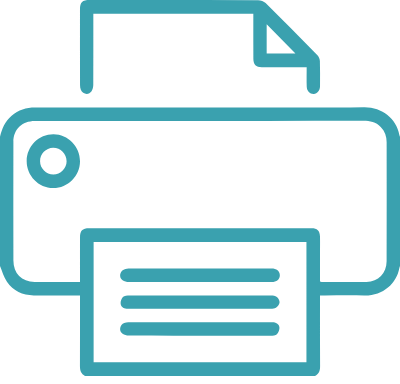
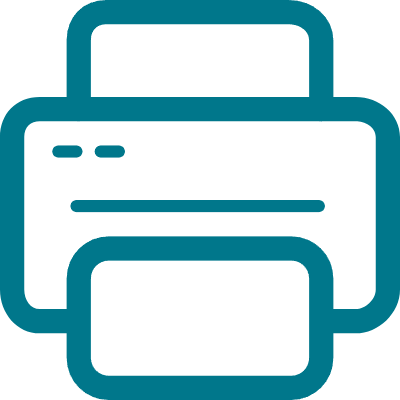
agregar iconos

diff --git a/Proyecto Integrador/Proyecto Integrador/Vistas/Utilidades/IconosAcciones.cs b/Proyecto Integrador/Proyecto Integrador/Vistas/Utilidades/IconosAcciones.cs
@@ -10,7 +10,21 @@ public static class IconosAcciones
     public static Image? Inactivo { get; } = Cargar(RecursosAplicacion.ArchivoIconoInactivo);
     public static Image? GenerarFactura { get; } = Cargar(RecursosAplicacion.ArchivoIconoGenerarFactura);
     public static Image? Imprimir { get; } = Cargar(RecursosAplicacion.ArchivoIconoImprimir);
-    public static Image? CambiarEstado { get; } = Cargar(RecursosAplicacion.ArchivoIconoCambiarEstado);
+    public static Image? CambiarEstadoPendiente { get; } =
+        Cargar(RecursosAplicacion.ArchivoIconoCambiarEstadoPendiente);
+
+    public static Image? CambiarEstadoPagado { get; } =
+        Cargar(RecursosAplicacion.ArchivoIconoCambiarEstadoPagado);
+
+    public static Image? CambiarEstadoCancelado { get; } =
+        Cargar(RecursosAplicacion.ArchivoIconoCambiarEstadoCancelado);
+
+    public static Image? IconoCambiarEstadoFactura(string estado) => estado switch
+    {
+        "Pagada" => CambiarEstadoPagado,
+        "Cancelada" => CambiarEstadoCancelado,
+        _ => CambiarEstadoPendiente
+    };
     public static Image? VerGrafica { get; } = Cargar(RecursosAplicacion.ArchivoIconoCotizacion);
 
     private static Image? Cargar(string archivo)

diff --git a/Proyecto Integrador/Proyecto Integrador/Vistas/Facturas/FacturaControl.cs b/Proyecto Integrador/Proyecto Integrador/Vistas/Facturas/FacturaControl.cs
@@ -46,7 +46,8 @@ public partial class FacturaControl : UserControl
                 f.Estado);
 
             if (EsAdmin)
-                dgvFacturas.Rows[indice].Cells[colIconoEstado.Index].Value = IconosAcciones.CambiarEstado;
+                dgvFacturas.Rows[indice].Cells[colIconoEstado.Index].Value =
+                    IconosAcciones.IconoCambiarEstadoFactura(f.Estado);
 
             dgvFacturas.Rows[indice].Cells[colIconoImprimir.Index].Value = IconosAcciones.Imprimir;
         }
@@ -110,7 +111,8 @@ public partial class FacturaControl : UserControl
         string ayuda = "";
         if (e.RowIndex >= 0)
         {
-            if (e.ColumnIndex == colIconoEstado.Index) ayuda = "Cambiar estado";
+            if (e.ColumnIndex == colIconoEstado.Index)
+                ayuda = $"Estado: {_facturas[e.RowIndex].Estado} (clic para cambiar)";
             else if (e.ColumnIndex == colIconoImprimir.Index) ayuda = "Imprimir PDF";
         }
 

diff --git a/Proyecto Integrador/Proyecto Integrador/Vistas/Utilidades/RecursosAplicacion.cs b/Proyecto Integrador/Proyecto Integrador/Vistas/Utilidades/RecursosAplicacion.cs
@@ -10,7 +10,9 @@ namespace Proyecto_Integrador.Vistas.Utilidades
         public const string ArchivoIconoInactivo = "icono-inactivo.png";
         public const string ArchivoIconoGenerarFactura = "icono-generar-factura.png";
         public const string ArchivoIconoImprimir = "icono-imprimir.png";
-        public const string ArchivoIconoCambiarEstado = "icono-cambiar-estado.png";
+        public const string ArchivoIconoCambiarEstadoPendiente = "icono-cambiar-estado-pendiente.png";
+        public const string ArchivoIconoCambiarEstadoPagado = "icono-cambiar-estado-pagado.png";
+        public const string ArchivoIconoCambiarEstadoCancelado = "icono-cambiar-estado-cancelado.png";
         public const string ArchivoIconoCotizacion = "icono-ver-cotizacion.png";
         public const string ArchivoOjoAbierto = "ojoAbierto.jpg";
         public const string ArchivoOjoCerrado = "ojoCerrado.jpg";